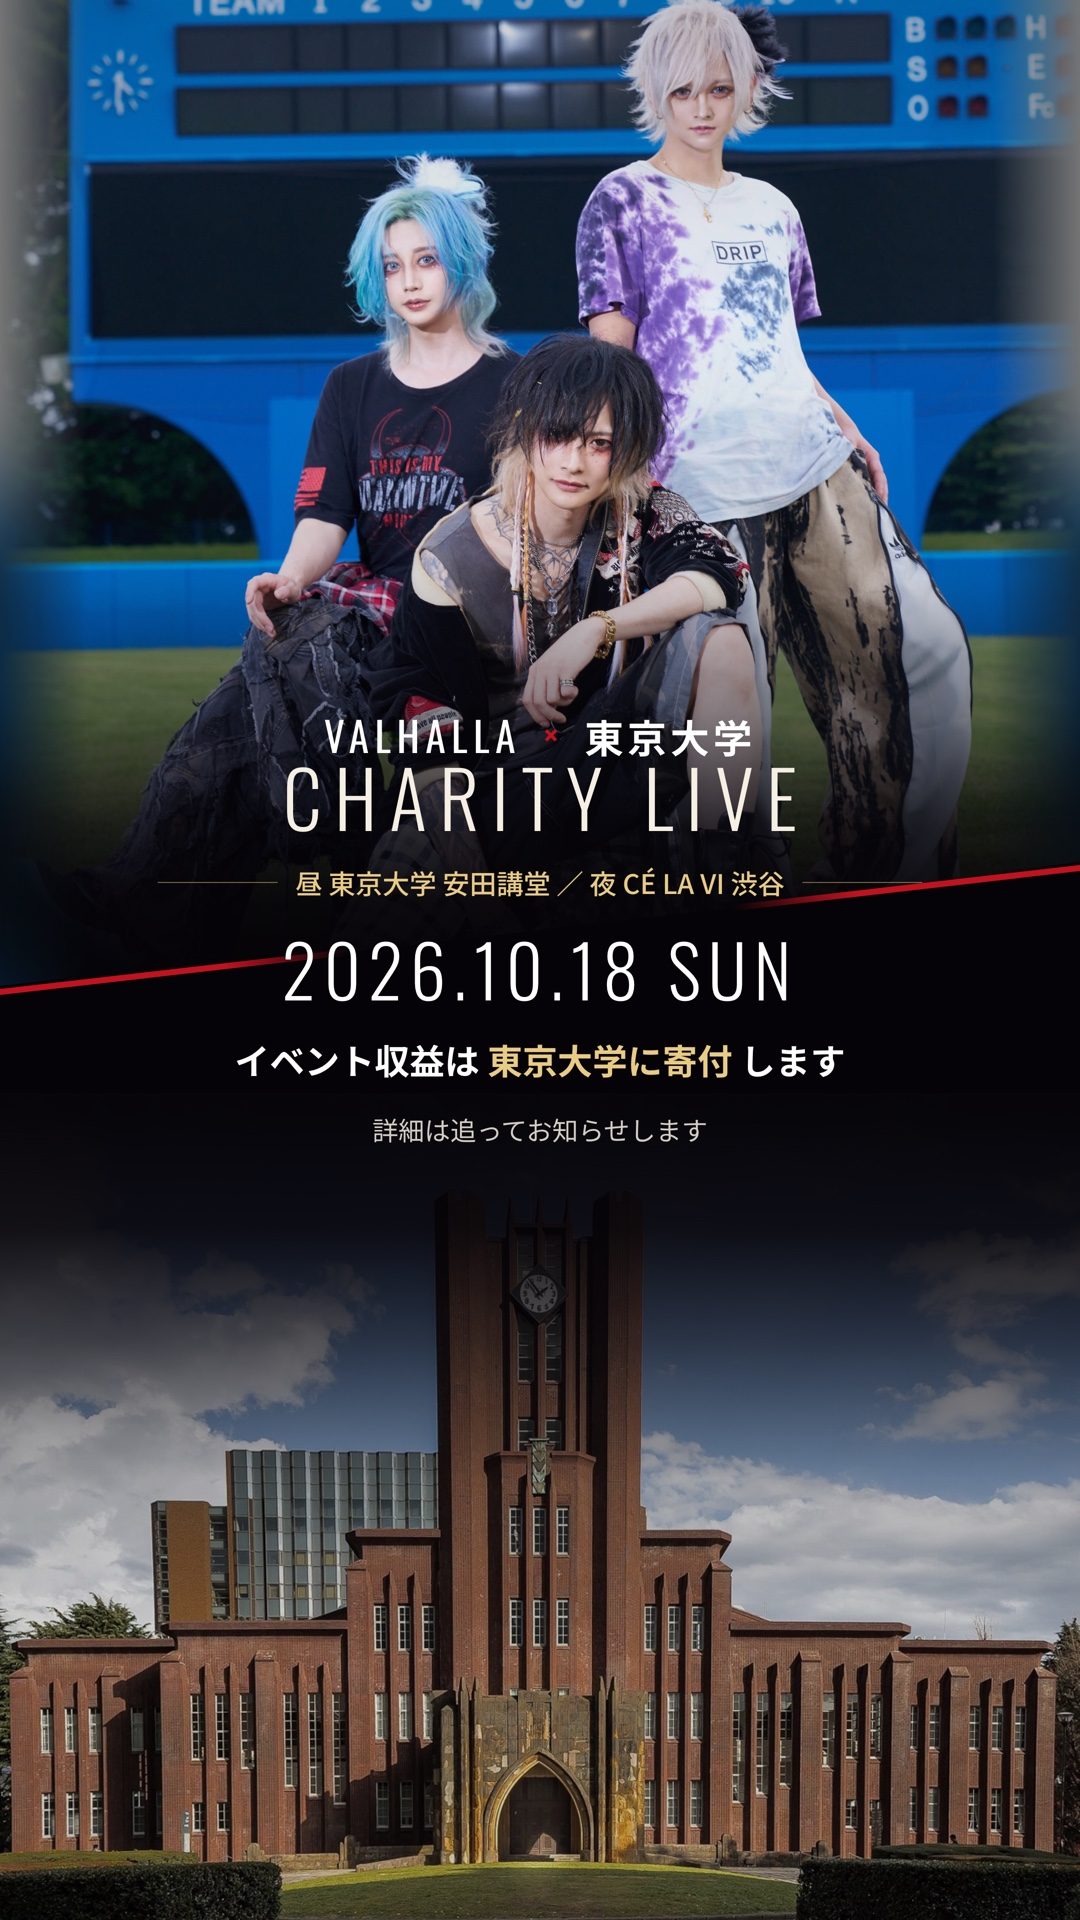
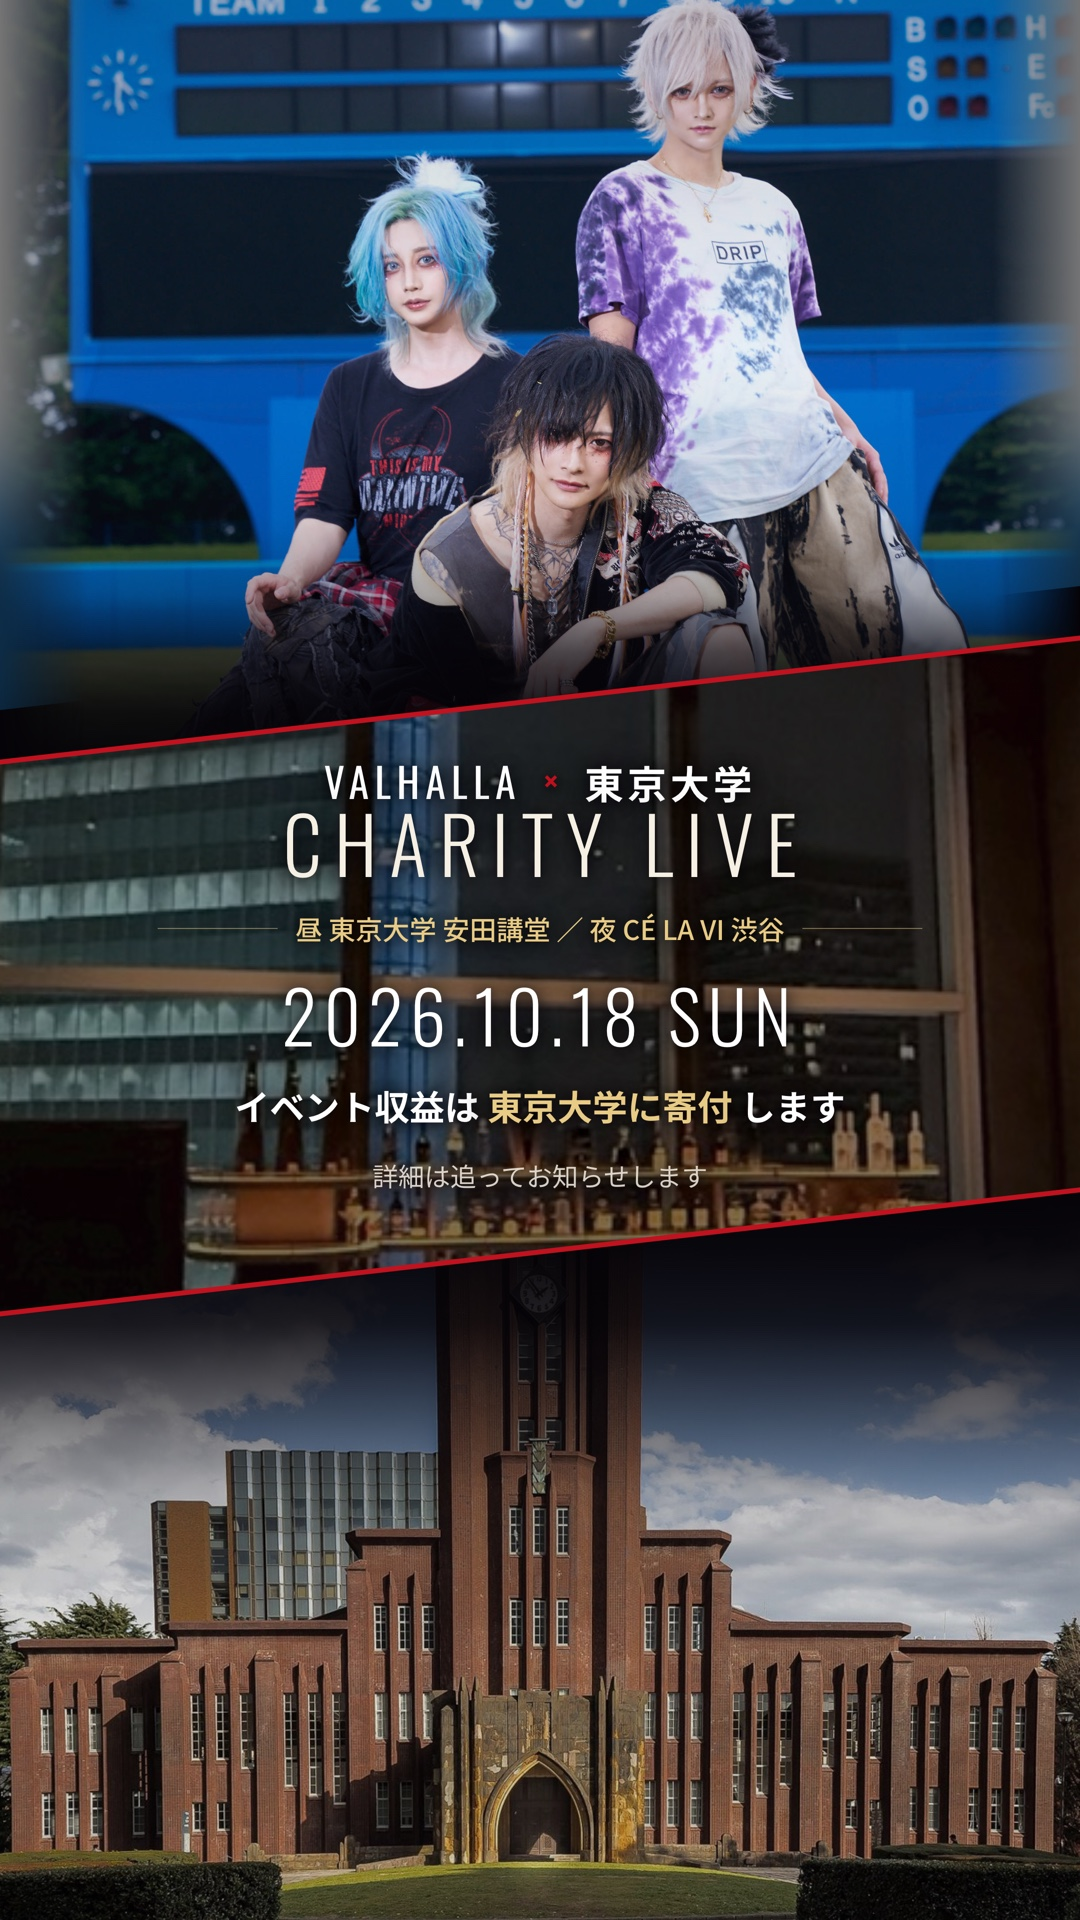
告知ティザーに CÉ LA VI を追加（3バンド構成へ）
kazuma 指示「セラビの一番かっこいい画像も入れたい」。

会場写真5点を見比べ、空間の広さ・大窓の夜景・高層感が一番出ている
venue/dj.jpg を採用した（roofnight は暗くブレていて不採用）。

- 上下2分割 → **上=VALHALLA / 中=CÉ LA VI / 下=東京大学** の3バンドに変更
  斜線（クリムゾン）は帯の上下2本に
- 中央のセラビ帯が文字の下地を兼ねる。写真が見える濃さまで暗幕を弱め、
  そのぶん文字に影を付けて可読性を確保した
- セラビの位置は大窓と夜景が中心に来るよう調整（center 42%）

3サイズとも VALHALLA の3人・セラビの大窓・安田講堂の全景が
すべて入ることを描画で確認済み。

Changed region(s): [[0.0, 0.2812, 1.0, 0.75]]

diff --git a/flyer-teaser.html b/flyer-teaser.html
@@ -31,13 +31,14 @@
     /* 斜めの落差（左端が下・右端が上）。全サイズ共通で角度を揃える */
     --drop:62px;
     -webkit-print-color-adjust:exact;print-color-adjust:exact}
-  .board.t45{height:1350px;--mid:640px}
-  .board.t11{height:1080px;--mid:512px}
-  .board.t916{height:1920px;--mid:930px}
+  /* --ma = 上の境界 / --mb = 下の境界。その間が CÉ LA VI の帯 */
+  .board.t45{height:1350px;--ma:498px;--mb:900px}
+  .board.t11{height:1080px;--ma:372px;--mb:742px}
+  .board.t916{height:1920px;--ma:700px;--mb:1252px}
 
   /* ── 上半分：VALHALLA ── */
   .upbg,.up{position:absolute;inset:0;z-index:0;background-repeat:no-repeat;
-    clip-path:polygon(0 0,100% 0,100% calc(var(--mid) - var(--drop)),0 calc(var(--mid) + var(--drop)))}
+    clip-path:polygon(0 0,100% 0,100% calc(var(--ma) - var(--drop)),0 calc(var(--ma) + var(--drop)))}
   /* 隙間を埋めるぼかし面 */
   .upbg{background-image:url('assets/charity/group_field.jpg');
     background-size:cover;background-position:center 28%;
@@ -47,23 +48,33 @@
     mask-image:linear-gradient(90deg,transparent 0,#000 8%,#000 92%,transparent 100%)}
   /* ── 下半分：東京大学 安田講堂 ── */
   .dn{position:absolute;inset:0;z-index:0;background-repeat:no-repeat;
-    clip-path:polygon(0 calc(var(--mid) + var(--drop)),100% calc(var(--mid) - var(--drop)),100% 100%,0 100%)}
+    clip-path:polygon(0 calc(var(--mb) + var(--drop)),100% calc(var(--mb) - var(--drop)),100% 100%,0 100%)}
+  /* 中央帯：CÉ LA VI（この夜の舞台）。文字の下地も兼ねる */
+  .md{position:absolute;inset:0;z-index:0;background-repeat:no-repeat;
+    background-image:url('assets/charity/venue/dj.jpg');
+    background-size:cover;background-position:center 42%;
+    clip-path:polygon(0 calc(var(--ma) + var(--drop)),100% calc(var(--ma) - var(--drop)),
+                      100% calc(var(--mb) - var(--drop)),0 calc(var(--mb) + var(--drop)))}
+  .md::after{content:"";position:absolute;inset:0;
+    background:linear-gradient(180deg,
+      rgba(5,3,7,.94) 0%, rgba(5,3,7,.56) 13%, rgba(5,3,7,.44) 50%,
+      rgba(5,3,7,.60) 85%, rgba(5,3,7,.94) 100%)}
 
   /* 中央に向かって暗く落とすスクリム（写真の上に重ねる） */
   .up::after,.dn::after{content:"";position:absolute;inset:0}
   .up::after{background:linear-gradient(180deg,
-      rgba(5,3,7,.18) 0%, rgba(5,3,7,.05) 16%, rgba(5,3,7,.14) 30%,
-      rgba(5,3,7,.46) 37%, rgba(5,3,7,.84) 43%, rgba(5,3,7,.97) 47%, #050307 52%)}
+      rgba(5,3,7,.18) 0%, rgba(5,3,7,.04) 18%, rgba(5,3,7,.12) 27%,
+      rgba(5,3,7,.34) 31%, rgba(5,3,7,.72) 34%, rgba(5,3,7,.93) 37%, #050307 40%)}
   .dn::after{background:linear-gradient(0deg,
-      rgba(5,3,7,.18) 0%, rgba(5,3,7,.08) 13%, rgba(5,3,7,.28) 23%,
-      rgba(5,3,7,.66) 30%, rgba(5,3,7,.92) 36%, rgba(5,3,7,.98) 42%, #050307 48%)}
+      rgba(5,3,7,.18) 0%, rgba(5,3,7,.06) 14%, rgba(5,3,7,.24) 22%,
+      rgba(5,3,7,.60) 27%, rgba(5,3,7,.88) 31%, rgba(5,3,7,.97) 35%, #050307 38%)}
 
   /* 分割の斜線（クリムゾン） */
-  .slash{position:absolute;left:-14%;width:128%;z-index:2;
-    top:calc(var(--mid) - 3px);height:6px;
-    background:linear-gradient(90deg,transparent 0,var(--crimson) 9%,var(--crimson) 27%,
-      transparent 36%,transparent 64%,var(--crimson) 73%,var(--crimson) 91%,transparent 100%);
+  .slash{position:absolute;left:-14%;width:128%;z-index:2;height:5px;
+    background:linear-gradient(90deg,transparent 0,var(--crimson) 9%,var(--crimson) 91%,transparent 100%);
     transform:rotate(-6.55deg)}
+  .slash.s1{top:calc(var(--ma) - 2.5px)}
+  .slash.s2{top:calc(var(--mb) - 2.5px)}
 
   /* 端に置く小さなラベル */
   .tag{position:absolute;z-index:3;color:#fff;letter-spacing:.10em;
@@ -76,7 +87,8 @@
 
   /* ── 中央の文字 ── */
   .body{position:absolute;left:0;right:0;z-index:4;text-align:center;
-    top:var(--mid);transform:translateY(-50%)}
+    top:calc((var(--ma) + var(--mb)) / 2);transform:translateY(-50%);
+    text-shadow:0 2px 14px rgba(5,3,7,.95),0 0 34px rgba(5,3,7,.85)}
   .pair{font-weight:700;color:#fff;letter-spacing:.10em;line-height:1}
   .pair i{font-style:normal;color:var(--crimson);font-weight:400;
     font-family:'Oswald',sans-serif;margin:0 .5em}
@@ -166,8 +178,10 @@
 <section class="board t45">
   <div class="upbg"></div>
   <div class="up"></div>
+  <div class="md"></div>
   <div class="dn"></div>
-  <div class="slash"></div>
+  <div class="slash s1"></div>
+  <div class="slash s2"></div>
 
 
   <div class="body">
@@ -184,8 +198,10 @@
 <section class="board t11">
   <div class="upbg"></div>
   <div class="up"></div>
+  <div class="md"></div>
   <div class="dn"></div>
-  <div class="slash"></div>
+  <div class="slash s1"></div>
+  <div class="slash s2"></div>
 
 
   <div class="body">
@@ -202,8 +218,10 @@
 <section class="board t916">
   <div class="upbg"></div>
   <div class="up"></div>
+  <div class="md"></div>
   <div class="dn"></div>
-  <div class="slash"></div>
+  <div class="slash s1"></div>
+  <div class="slash s2"></div>
 
 
   <div class="body">

diff --git a/docs/celavi-afterparty.md b/docs/celavi-afterparty.md
@@ -122,8 +122,9 @@
     - `assets/charity/flyer/teaser/teaser_1080x1350.jpg` ／ `_1080x1080.jpg` ／ `_1080x1920.jpg`
     - 狙い（kazuma 指示 2026-08-28）: 内容が未確定なので**簡素に**。
       **「東京大学 × VALHALLA」を最大に見せる**ことだけに絞る
-    - 構成（kazuma 指示 2026-08-28。縦分割→**横の斜めスラッシュ**に変更）:
-      画面を斜めの線で上下に割り、**上半分＝VALHALLA／下半分＝東京大学 安田講堂**。
+    - 構成（kazuma 指示 2026-08-28。縦分割→**横の斜めスラッシュ**→**3バンド**へ）:
+      画面を斜めの線で3段に割り、**上＝VALHALLA／中＝CÉ LA VI（`venue/dj.jpg`）／下＝東京大学 安田講堂**。
+      中央のセラビ帯が文字の下地も兼ねる（文字には影を付けて可読性を確保）。
       上端・下端に向かうほど写真がくっきり、中央に向かうほど暗く落として、
       その暗い帯に文字を置く。斜線（クリムゾン）は文字を避けて左右にだけ走らせる。
     - 調整の基準（kazuma 2026-08-28）:
@@ -136,6 +137,7 @@
          建物の頭が来るよう、引いた上で下げる
       現在値: .up = t45 88%/-419px ・ t11 70%/-337px ・ t916 100%/-500px
       　　　　.dn = t45 100%/649px ・ t11 100%/379px ・ t916 118%/1093px
+      　　　　帯の境界 --ma/--mb = t45 498/900 ・ t11 372/742 ・ t916 700/1252
       ※ **ストーリー版（1080x1920）が基準形**。縦に余裕があり一番きれいに収まる
     - 載せるもの: VALHALLA × 東京大学 ／
       CHARITY LIVE ／ 日付 ／ 昼夜の会場 ／ 収益は東大へ寄付 ／「詳細は追ってお知らせします」
